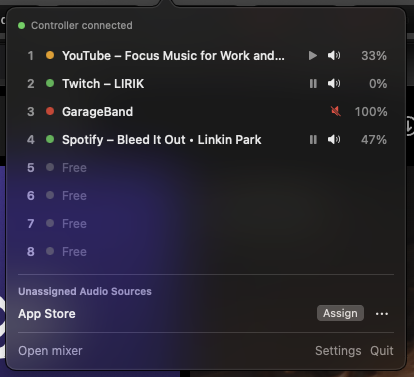
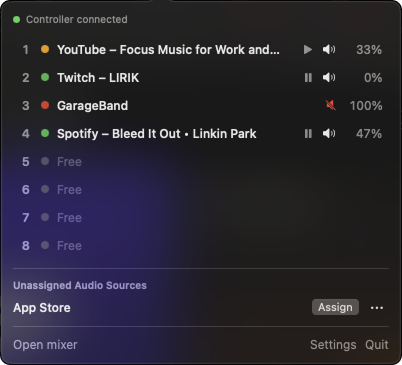
Restore channel layout after a restart; cleaner screenshots

diff --git a/Sources/LCXMixer/MixerCore.swift b/Sources/LCXMixer/MixerCore.swift
@@ -16,10 +16,13 @@ final class MixerCore: ObservableObject {
     @Published private(set) var channels: [String?] = Array(repeating: nil, count: MixerCore.channelCount) {
         didSet {
             for i in 0..<MixerCore.channelCount where oldValue[i] != channels[i] { resetKnobs(i) }
+            // A channel that gets any source is no longer held for the one that sat there before the restart.
+            if !restore.isEmpty { restore = restore.filter { channels[$0.key] == nil } }
             scheduleRefresh()
+            saveLayout()
         }
     }
-    @Published private(set) var sources: [String: Source] = [:] { didSet { scheduleRefresh() } }
+    @Published private(set) var sources: [String: Source] = [:] { didSet { scheduleRefresh(); saveLayout() } }
     @Published private(set) var waiting: [String] = []
     @Published private(set) var manual: [String] = []
     @Published private(set) var muteAll = false { didSet { scheduleRefresh() } }
@@ -70,6 +73,15 @@ final class MixerCore: ObservableObject {
     private var cancellables = Set<AnyCancellable>()
     private var pollCount = 0
 
+    // Restoring the channel layout after a restart
+    private struct SavedSlot: Codable, Equatable { var id: String; var host: String }
+    private static let layoutKey = "channelLayout"
+    /// How long a channel is held for the source that sat on it before the restart.
+    private static let restoreWindow: TimeInterval = 10
+    /// Channels held for sources from the saved layout, until they return or the window ends.
+    private var restore: [Int: SavedSlot] = [:]
+    private var lastSavedLayout: Data?
+
     init(settings: AppSettings) {
         self.settings = settings
         self.monitor = AudioProcessMonitor(settings: settings)
@@ -79,7 +91,7 @@ final class MixerCore: ObservableObject {
 
     var masterActive: Bool { settings.masterMode && masterSupported }
     var firstSourceChannel: Int { masterActive ? 1 : 0 }
-    var hasFreeChannel: Bool { firstFreeChannel() != nil }
+    var hasFreeChannel: Bool { firstFreeChannel(includingHeld: true) != nil }
 
     var unassigned: [Source] {
         (waiting + manual).compactMap { sources[$0] }
@@ -133,6 +145,7 @@ final class MixerCore: ObservableObject {
     // MARK: - Start
 
     func start() {
+        loadLayout()
         ChromeBridgeServer.registerWithChrome()
 
         midi.onEvent = { [weak self] event in MainActor.assumeIsolated { self?.handle(event) } }
@@ -213,7 +226,7 @@ final class MixerCore: ObservableObject {
                 if engine.hasTap(id) {
                     engine.ensureTap(id: id, processObjects: app.processObjects, gain: effectiveGain(s))
                 }
-            } else if app.isRunningOutput {
+            } else if app.isRunningOutput || isHeld(id, host: "") {
                 var s = Source(
                     id: id, kind: .app, name: app.name, detail: detail, icon: app.icon,
                     rememberKey: key, isPlaying: true, isAudible: true, isMuted: false, volume: 1,
@@ -249,8 +262,9 @@ final class MixerCore: ObservableObject {
 
     // MARK: - Assignment
 
-    private func firstFreeChannel() -> Int? {
-        (firstSourceChannel..<MixerCore.channelCount).first { channels[$0] == nil }
+    /// Automatic placement skips channels held for a returning source; your own actions (Assign, drag) may use them.
+    private func firstFreeChannel(includingHeld: Bool = false) -> Int? {
+        (firstSourceChannel..<MixerCore.channelCount).first { channels[$0] == nil && (includingHeld || restore[$0] == nil) }
     }
 
     private func addSource(_ source: Source) {
@@ -262,7 +276,9 @@ final class MixerCore: ObservableObject {
             return
         }
         sources[s.id] = s
-        if let ch = firstFreeChannel() {
+        if let ch = heldChannel(for: s) {
+            place(s.id, on: ch)
+        } else if let ch = firstFreeChannel() {
             place(s.id, on: ch)
         } else {
             waiting.append(s.id)
@@ -366,8 +382,58 @@ final class MixerCore: ObservableObject {
     }
 
     private func fillFromWaiting(_ ch: Int) {
-        guard ch >= firstSourceChannel, channels[ch] == nil, let next = waiting.first else { return }
+        guard ch >= firstSourceChannel, channels[ch] == nil, restore[ch] == nil, let next = waiting.first else { return }
         place(next, on: ch)
+    }
+
+    // MARK: - Channel layout across restarts
+
+    /// Loads the layout saved before the app last quit, and holds those channels for a short while.
+    private func loadLayout() {
+        guard let data = UserDefaults.standard.data(forKey: Self.layoutKey),
+              let slots = try? JSONDecoder().decode([SavedSlot?].self, from: data) else { return }
+        lastSavedLayout = data
+        for (ch, slot) in slots.enumerated() where ch < Self.channelCount {
+            if let slot { restore[ch] = slot }
+        }
+        if !restore.isEmpty {
+            after(Self.restoreWindow) { [weak self] in self?.endRestore() }
+        }
+    }
+
+    /// Saves which source sits on which channel: only the source's ID (tab number or app) and, for tabs, the website.
+    private func saveLayout() {
+        var slots: [SavedSlot?] = Array(repeating: nil, count: Self.channelCount)
+        for ch in 0..<Self.channelCount {
+            if let id = channels[ch], let s = sources[id] {
+                slots[ch] = SavedSlot(id: id, host: s.kind == .tab ? s.host : "")
+            } else if let held = restore[ch] {
+                slots[ch] = held // keep it saved while it's still being held
+            }
+        }
+        guard let data = try? JSONEncoder().encode(slots), data != lastSavedLayout else { return }
+        lastSavedLayout = data
+        UserDefaults.standard.set(data, forKey: Self.layoutKey)
+    }
+
+    /// A tab must also be on the same website, so a reused tab number can't take another site's channel.
+    private func isHeld(_ id: String, host: String) -> Bool {
+        restore.values.contains { $0.id == id && (id.hasPrefix("app:") || $0.host == host) }
+    }
+
+    private func heldChannel(for s: Source) -> Int? {
+        restore.first { entry in
+            entry.value.id == s.id && (s.kind == .app || entry.value.host == s.host)
+                && entry.key >= firstSourceChannel && channels[entry.key] == nil
+        }?.key
+    }
+
+    /// Sources that didn't come back in time give up their channels; waiting sources fill them.
+    private func endRestore() {
+        guard !restore.isEmpty else { return }
+        restore.removeAll()
+        for ch in firstSourceChannel..<Self.channelCount where channels[ch] == nil { fillFromWaiting(ch) }
+        saveLayout()
     }
 
     // MARK: - User actions (UI and controller)
@@ -389,7 +455,7 @@ final class MixerCore: ObservableObject {
     }
 
     func assign(_ id: String) {
-        guard sources[id] != nil, channel(of: id) == nil, let ch = firstFreeChannel() else { return }
+        guard sources[id] != nil, channel(of: id) == nil, let ch = firstFreeChannel(includingHeld: true) else { return }
         if sources[id]?.permissionNeeded == true {
             AudioCapturePermission.openSystemSettings()
             return
@@ -904,7 +970,8 @@ final class MixerCore: ObservableObject {
             }
 
             if sources[id] == nil {
-                guard audible, !settings.isIgnored([host]) else { continue }
+                // A paused tab that held a channel before the restart takes it back too.
+                guard audible || (hasMedia && isHeld(id, host: host)), !settings.isIgnored([host]) else { continue }
                 seen.insert(id)
                 var s = Source(
                     id: id, kind: .tab, name: SiteNames.name(forHost: host),

diff --git a/docs/SPEC.md b/docs/SPEC.md
@@ -100,6 +100,7 @@ A source is either one native app (or app group) or one Chrome tab. A new source
 4. **All channels full:** the new source goes to the unassigned list (see next section) and waits.
 5. **A channel frees:** the source that has waited longest in the unassigned list takes it. Sources you unassigned yourself don't count as waiting.
 6. **No reshuffling:** channels are never reordered or compacted automatically. Drag-and-drop is the only way to move a source to a different channel.
+7. **After a restart:** sources that are still open when the app starts again go back to the channels they had, including a paused tab that held one. Each of those channels is held for 10 seconds; a source that hasn't come back by then gives its channel to whatever is waiting. New sources take other free channels in the meantime, and your own Assign and drag can use any free channel.
 
 ## Unassigned sources and the ignore list
 
@@ -238,7 +239,9 @@ The controller LEDs, the window and the menu-bar panel use the same four colours
 
 **Remembered volume:** the app saves one volume per website (youtube.com) and per app (League), not per tab. It updates whenever you change a source's volume and applies when a new source from that website or app gets a channel. It's stored on this Mac only: a website or app name and a volume, with no tab list, page addresses or history.
 
-**Not remembered across restarts, by design:** which source sat on which channel, and manual unassigns. Channels fill fresh, first come, first served, every time the app starts.
+**Channel layout:** which source sits on which channel is saved whenever it changes, so it survives a quit or a crash (see assignment rule 7). Only the tab's number and website, or the app's name, are stored. If Chrome was restarted in between, its tabs have new numbers, so they fill channels fresh.
+
+**Not remembered across restarts, by design:** manual unassigns. A source you unassigned is treated as new after a restart.
 
 ## Edge cases and failure handling
 
@@ -247,6 +250,7 @@ Nothing fails silently: every problem shows in the window header, the menu-bar p
 | Situation | Behaviour |
 | --- | --- |
 | Controller unplugged, then plugged back in | Window and panel show "Not connected"; the menu-bar icon gets its slash. On reconnect, LEDs are refreshed and all faders start detached |
+| Mixer app restarts while media keeps playing | Each source that is still open goes back to its old channel; the fader needs one touch to pick it up again, as the faders aren't motorised |
 | Mixer app quits or crashes | Media keeps playing without a jump. Native apps go back to their own volume, so none stays muted; Chrome tabs keep the volume and mute state they had (verified in testing) |
 | Chrome not running, or extension missing | Tabs simply don't appear. If Chrome runs but the extension doesn't connect, the header says so with a fix-it link |
 | Volume changed with a site's or app's own slider | The channel follows the new level and the fader detaches |
@@ -283,6 +287,7 @@ Nothing fails silently: every problem shows in the window header, the menu-bar p
 - [x] Tabs keep their channels when moved to another window or screen; pop-ups appear on the screen where the source plays
 - [x] Rebuilds keep the audio permission, and the extension updates itself
 - [x] Unplugging and replugging the controller recovers cleanly
+- [x] Restarting the app puts sources back on their channels; a closed source's channel frees after 10 seconds
 - [x] Quitting the mixer app leaves all audio playing, with no volume jump
 - [x] Audio delay is imperceptible in a real League match
 

diff --git a/README.md b/README.md
@@ -18,7 +18,7 @@ https://github.com/user-attachments/assets/81d2e758-2983-4775-951c-c71e33042e1c
 
 **What you get**
 
-- **Automatic assignment:** a new source takes the next free channel, first come, first served, and keeps it until it closes.
+- **Automatic assignment:** a new source takes the next free channel, first come, first served, and keeps it until it closes, even if you restart the app.
 - **Per-tab control:** Spotify, YouTube and Twitch in the same browser each get their own fader.
 - **Hands-free control:** volume on the faders, play/pause and mute on the buttons, and mute-all on the side Mute button.
 - **Clear feedback:** controller LEDs, a mixer window, a menu-bar panel and a short on-screen pop-up all show the same state.
